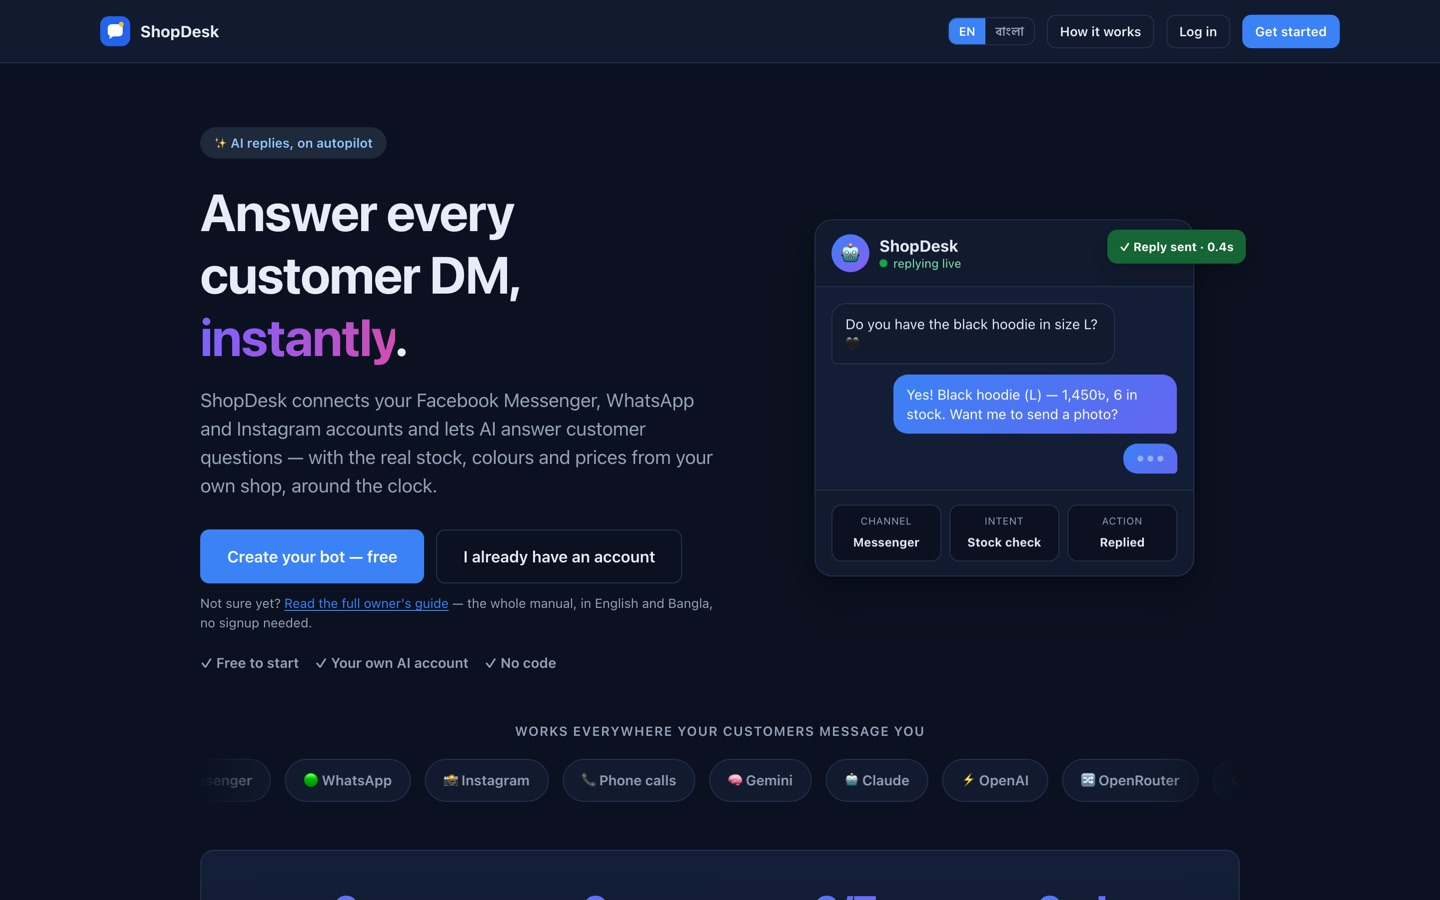
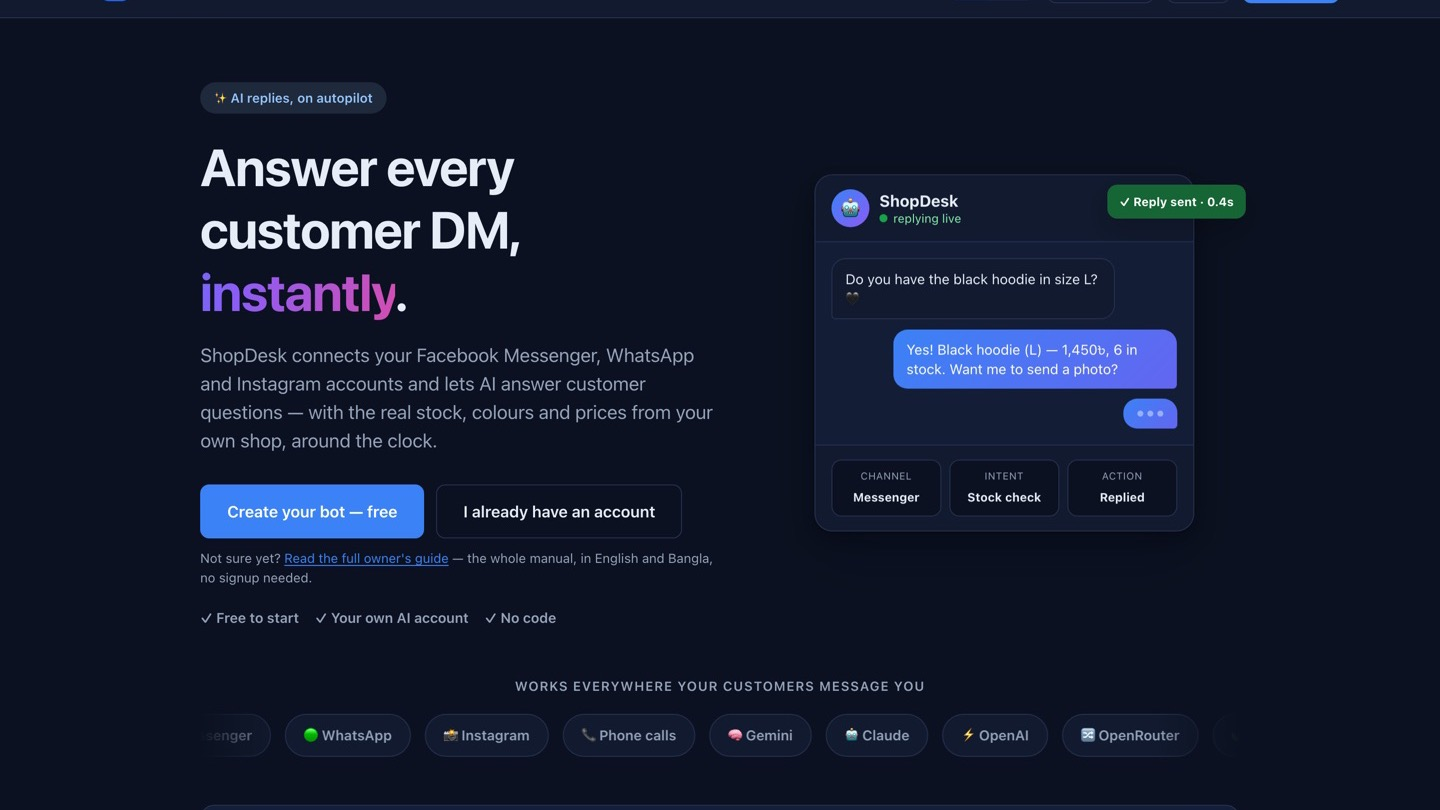
Use real screenshots for every live product
AI Call Center, EduAI, payment verification and ShopVerse now show their live
home pages, cropped to the card's 16:9 frame.

diff --git a/index.html b/index.html
@@ -206,7 +206,7 @@
 
           <article class="product">
             <a class="product-media" href="https://bot.drutoai.com/">
-              <img src="images/proj_shopdesk-landing.jpg" width="1440" height="900"
+              <img src="images/proj_shopdesk-landing.jpg" width="1440" height="810"
                 alt="ShopDesk home page with a live chat answering a customer's stock question" loading="lazy">
             </a>
             <h4><a href="https://bot.drutoai.com/">ShopDesk</a></h4>
@@ -220,7 +220,8 @@
 
           <article class="product">
             <a class="product-media" href="https://callcenter.drutoai.com/">
-              <img src="images/proj_ai-call-center.svg" alt="AI Call Center illustration" loading="lazy">
+              <img src="images/proj_ai-call-center-landing.jpg" width="1440" height="810"
+                alt="AI Call Center home page with a voice agent booking an appointment" loading="lazy">
             </a>
             <h4><a href="https://callcenter.drutoai.com/">AI Call Center</a></h4>
             <p class="domain">callcenter.drutoai.com</p>
@@ -230,7 +231,8 @@
 
           <article class="product">
             <a class="product-media" href="https://learn.drutoai.com/">
-              <img src="images/proj_eduai.svg" alt="EduAI illustration" loading="lazy">
+              <img src="images/proj_eduai-landing.jpg" width="1440" height="810"
+                alt="EduAI home page: learn anything with AI, with suggested topics" loading="lazy">
             </a>
             <h4><a href="https://learn.drutoai.com/">EduAI</a></h4>
             <p class="domain">learn.drutoai.com</p>
@@ -240,7 +242,8 @@
 
           <article class="product">
             <a class="product-media" href="https://pay.drutoai.com/">
-              <img src="images/proj_payment-verify.svg" alt="BD Payment Verify illustration" loading="lazy">
+              <img src="images/proj_payment-verify-landing.jpg" width="1440" height="810"
+                alt="Payment verification home page listing bKash, Nagad and Rocket and how it works" loading="lazy">
             </a>
             <h4><a href="https://pay.drutoai.com/">BD Payment Verify</a></h4>
             <p class="domain">pay.drutoai.com</p>
@@ -250,7 +253,8 @@
 
           <article class="product">
             <a class="product-media" href="https://shop.drutoai.com/">
-              <img src="images/proj_shopverse.svg" alt="ShopVerse illustration" loading="lazy">
+              <img src="images/proj_shopverse-landing.jpg" width="1440" height="740"
+                alt="ShopVerse store home page" loading="lazy">
             </a>
             <h4><a href="https://shop.drutoai.com/">ShopVerse</a></h4>
             <p class="domain">shop.drutoai.com</p>
